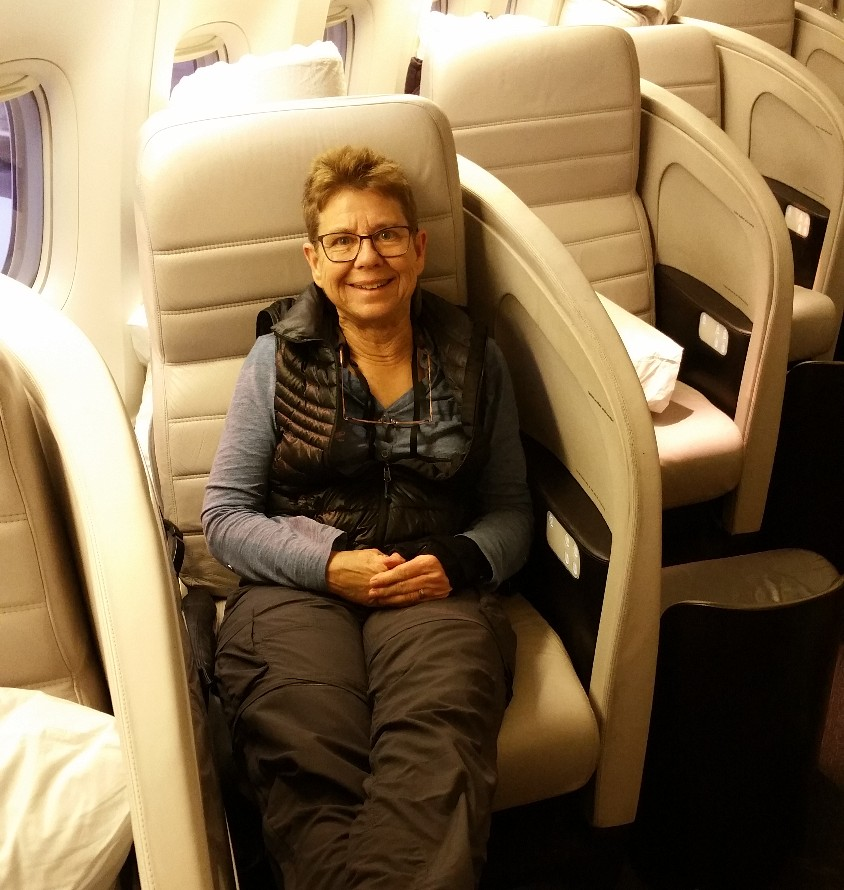
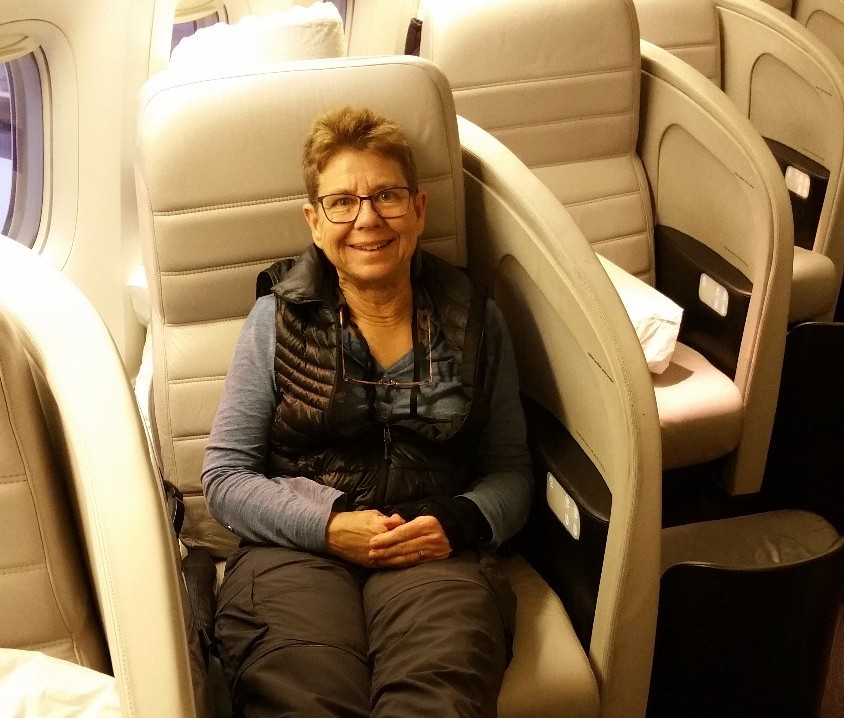
update

diff --git a/travels/newzealand/driving.html b/travels/newzealand/driving.html
@@ -1,0 +1,138 @@
+<!doctype html>
+<html lang="en">
+<head>
+	<meta charset="utf-8">
+	<title>Driving on the wrong side of the road - Laura's Adventures</title>
+	<meta name="viewport" content="width=device-width, initial-scale=1.0">
+
+	<link rel="stylesheet" href="/navigation.css">
+	<link rel="stylesheet" href="/content-layouts.css">
+	<link rel="stylesheet" href="/lightbox.css">
+
+	<script src="/navigation.js" defer></script>
+	<script src="/lightbox.js" defer></script>
+	<script src="/story-gallery.js" defer></script>
+
+</head>
+
+
+<body class="story-page">
+	
+	<!-- ======================================================
+     STORY PAGE STARTER — EDITING CHECKLIST
+
+     1. Change the <title> in the HEAD section.
+     2. Change the <h1> page heading.
+     3. Replace the story paragraphs.
+     4. Add photographs in the PHOTO GALLERY section.
+     5. Change each photo's filename, title and caption.
+     6. Adjust object-position if thumbnail cropping
+        cuts off an important part of the photograph.
+
+     DO NOT CHANGE:
+     - storyGallery ID
+     - myLightbox ID
+     - Shared navigation and lightbox JavaScript
+     ====================================================== -->
+
+    <!-- Shared website navigation -->
+    <div id="global-navigation-hub"></div>
+
+	<main id="page-content">
+		<h1>Driving on the wrong side of the road</h1>
+
+		<!-- Page Content Starts -->
+		<img src="../../images/travels/newzealand/driving/driving1.jpg" width="300" class="photo-left" alt=""/>
+		<p>
+		When I picked up the rental car this morning, the rental agent spent a minute or two going over the rules of the road in New Zealand and then I watched a 5 minute video that also went over the rules. Most of the rules are the same as at home, wear your seat belt, no texting and driving, don't pass on a solid yellow line, etc. But, of course, the main thing is to drive on the left side of the road. There was a picture in the video that showed the countries that drive on the left and the ones that drive on the right. Based on this picture, the left side is definitely the wrong side! 
+		</p>
+
+		<p>
+		So, after the short bit of education, the agent gave me the keys and I promptly walked over to the left side of the car and opened the door. What a shock! This is just wrong looking.  
+		</p>
+
+		<p>
+		So, I went to the right side, got in and adjusted everything and headed out. I just kept telling myself, "stay on the left". Of course, just to add to the confusion, they have lots of roundabouts too! It is taking a lot of concentration, but I am starting to get the hang of it. The thing I have found to be hardest, is that the turn signals are on the right side of the steering wheel so I keep turning on the windshield wipers when I try to signal. Oh, and when I went to pick up Cristina, I had to turn on the lights and started the windshield wipers for the back window instead. The good part about it is that it is a constant reminder that I need to pay attention to what lane I am in. 
+		</p>
+
+		<p>
+		Speaking of driving, not only did I get to really start driving on the wrong side of the road, Mother Nature decided to add a downpour to the mix. The 2 hour drive to Waitomo took 2 and a half hours. I'm starting to get used to the driving, but even the New Zealanders seem to need to be reminded to drive on the left. There are signs and arrows everywhere reminding them.
+		</p>
+
+		<!-- Page Content Ends -->
+
+		<!-- Clear floating photos so the gallery starts below them -->
+		<div style="clear: both;"></div>
+		
+		<!-- =====================================================
+		 PHOTO GALLERY — START
+		 Add, remove, or rearrange photographs here.
+		 Change object-position to adjust thumbnail cropping.
+		 ===================================================== -->
+
+		<h2>Photo Gallery</h2>
+
+		<div class="story-gallery" id="storyGallery">
+
+			<!-- PHOTO 1 -->
+			<button type="button">
+				<img src="/images/travels/newzealand/driving/driving1.jpg"
+					 alt="This is just WRONG"
+					 data-caption=""
+					 style="object-position: center center;"
+					 loading="lazy">
+			</button>
+
+			<!-- PHOTO 2 -->
+			<button type="button">
+				<img src="/images/travels/newzealand/tubing/keepleft.jpg"
+					 alt="Cristina in front of her hobbit hole"
+					 data-caption=""
+					 style="object-position: center center;"
+					 loading="lazy">
+			</button>
+
+			<!-- ADD MORE PHOTOGRAPHS HERE -->
+
+		</div>
+
+		<!-- PHOTO GALLERY — END -->
+
+	</main>	
+	
+	<!-- =====================================================
+     SHARED LIGHTBOX — DO NOT MODIFY
+
+     This viewer works with:
+       lightbox.css
+       lightbox.js
+       story-gallery.js
+
+     All story pages use the same lightbox HTML.
+     The photo information comes from storyGallery above.
+     ===================================================== -->
+	
+	<div id="myLightbox" class="lightbox"
+		 role="dialog" aria-modal="true"
+		 aria-label="Photo viewer">
+
+		<span class="close-btn"
+			  onclick="closeLightbox()">&times;</span>
+
+		<span class="nav-btn prev-btn"
+			  onclick="changeImage(-1)">&#10094;</span>
+
+		<span class="nav-btn next-btn"
+			  onclick="changeImage(1)">&#10095;</span>
+
+		<img id="lightboxImg"
+			 class="lightbox-content"
+			 src="" alt="Active photo">
+
+		<div class="lightbox-caption">
+			<div id="captionTitle" class="caption-title"></div>
+			<div id="captionDesc" class="caption-desc"></div>
+		</div>
+	</div>
+</body>
+</html>
